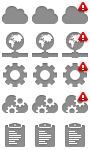
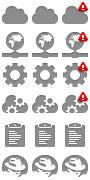
Create page for Redhat Settings (+Bonus Retina Support)

diff --git a/nailgun/static/js/libs/retina.js b/nailgun/static/js/libs/retina.js
@@ -1,0 +1,151 @@
+(function() {
+
+  var root = (typeof exports == 'undefined' ? window : exports);
+
+  var config = {
+    // Ensure Content-Type is an image before trying to load @2x image
+    // https://github.com/imulus/retinajs/pull/45)
+    check_mime_type: true
+  };
+
+
+
+  root.Retina = Retina;
+
+  function Retina() {}
+
+  Retina.configure = function(options) {
+    if (options == null) options = {};
+    for (var prop in options) config[prop] = options[prop];
+  };
+
+  Retina.init = function(context) {
+    if (context == null) context = root;
+
+    var existing_onload = context.onload || new Function;
+
+    var cssName = "/static/css/retina.css";
+    var head  = document.getElementsByTagName('head')[0];
+    var link  = document.createElement('link');
+    link.rel  = 'stylesheet';
+    link.type = 'text/css';
+    link.href = cssName;
+    head.appendChild(link);
+
+    context.onload = function() {
+      var images = document.getElementsByTagName("img"), retinaImages = [], i, image;
+      for (i = 0; i < images.length; i++) {
+        image = images[i];
+        retinaImages.push(new RetinaImage(image));
+      }
+      existing_onload();
+    }
+  };
+
+  Retina.isRetina = function(){
+    var mediaQuery = "(-webkit-min-device-pixel-ratio: 1.5),\
+                      (min--moz-device-pixel-ratio: 1.5),\
+                      (-o-min-device-pixel-ratio: 3/2),\
+                      (min-resolution: 1.5dppx)";
+
+    if (root.devicePixelRatio > 1)
+      return true;
+
+    if (root.matchMedia && root.matchMedia(mediaQuery).matches)
+      return true;
+
+    return false;
+  };
+
+
+  root.RetinaImagePath = RetinaImagePath;
+
+  function RetinaImagePath(path, at_2x_path) {
+    this.path = path;
+    if (typeof at_2x_path !== "undefined" && at_2x_path !== null) {
+      this.at_2x_path = at_2x_path;
+      this.perform_check = false;
+    } else {
+      this.at_2x_path = path.replace(/\.\w+$/, function(match) { return "@2x" + match; });
+      this.perform_check = true;
+    }
+  }
+
+  RetinaImagePath.confirmed_paths = [];
+
+  RetinaImagePath.prototype.is_external = function() {
+    return !!(this.path.match(/^https?\:/i) && !this.path.match('//' + document.domain) )
+  }
+
+  RetinaImagePath.prototype.check_2x_variant = function(callback) {
+    var http, that = this;
+    if (this.is_external()) {
+      return callback(false);
+    } else if (!this.perform_check && typeof this.at_2x_path !== "undefined" && this.at_2x_path !== null) {
+      return callback(true);
+    } else if (this.at_2x_path in RetinaImagePath.confirmed_paths) {
+      return callback(true);
+    } else {
+      http = new XMLHttpRequest;
+      http.open('HEAD', this.at_2x_path);
+      http.onreadystatechange = function() {
+        if (http.readyState != 4) {
+          return callback(false);
+        }
+
+        if (http.status >= 200 && http.status <= 399) {
+          if (config.check_mime_type) {
+            var type = http.getResponseHeader('Content-Type');
+            if (type == null || !type.match(/^image/i)) {
+              return callback(false);
+            }
+          }
+
+          RetinaImagePath.confirmed_paths.push(that.at_2x_path);
+          return callback(true);
+        } else {
+          return callback(false);
+        }
+      }
+      http.send();
+    }
+  }
+
+
+
+  function RetinaImage(el) {
+    this.el = el;
+    this.path = new RetinaImagePath(this.el.getAttribute('src'), this.el.getAttribute('data-at2x'));
+    var that = this;
+    this.path.check_2x_variant(function(hasVariant) {
+      if (hasVariant) that.swap();
+    });
+  }
+
+  root.RetinaImage = RetinaImage;
+
+  RetinaImage.prototype.swap = function(path) {
+    if (typeof path == 'undefined') path = this.path.at_2x_path;
+
+    var that = this;
+    function load() {
+      if (! that.el.complete) {
+        setTimeout(load, 5);
+      } else {
+        that.el.setAttribute('width', that.el.offsetWidth);
+        that.el.setAttribute('height', that.el.offsetHeight);
+        that.el.setAttribute('src', path);
+      }
+    }
+    load();
+  }
+
+
+
+
+  if (Retina.isRetina()) {
+    Retina.init(root);
+  }
+
+})();
+

diff --git a/nailgun/static/templates/cluster/redhat_tab.html b/nailgun/static/templates/cluster/redhat_tab.html
@@ -1,1 +1,84 @@
-redhat tab stub
+<div class="wrapper">
+  <h3 class="span12">Red Hat Enterprise Linux Settings</h3>
+  <div class="row-fluid">
+
+  	<div class="radio-checkbox-group net-manager">
+        <div class="item-box">
+            <label class="parameter-box clearfix">
+              <div class="parameter-control">
+                <div class="custom-tumbler">
+                  <input type="radio" value="" name="rh_select" checked>
+                  <!--[if !IE |(gte IE 9)]>--><span>&nbsp;</span><!--<![endif]-->
+                </div>
+              </div>
+              <div class="parameter-name">RHSM</div>
+            </label>
+         </div>
+         <div class="item-box">
+            <label class="parameter-box clearfix">
+              <div class="parameter-control">
+                <div class="custom-tumbler">
+                  <input type="radio" value="" name="rh_select">
+                  <!--[if !IE |(gte IE 9)]>--><span>&nbsp;</span><!--<![endif]-->
+                </div>
+              </div>
+              <div class="parameter-name">RHN Satellite</div>
+            </label>
+         </div>
+    </div>
+   	
+    <hr>
+
+    <label class="parameter-box clearfix setting">
+        <div class="openstack-sub-title parameter-name">Red Hat Username</div>
+        <div class="parameter-control">
+          <div class="parameter-control">
+            <input type="text" value="">
+          </div>
+        </div>
+        <div class="parameter-description description"></div>
+    </label>
+
+    <label class="parameter-box clearfix setting">
+        <div class="openstack-sub-title parameter-name">Red Hat Password</div>
+        <div class="parameter-control">
+          <div class="parameter-control">
+            <input type="password" value="">
+          </div>
+        </div>
+        <div class="parameter-description description"></div>
+    </label>
+
+    <label class="parameter-box clearfix setting">
+        <div class="openstack-sub-title parameter-name">Satellite Server Hostname</div>
+        <div class="parameter-control">
+          <div class="parameter-control">
+            <input type="text" value="">
+          </div>
+        </div>
+        <div class="parameter-description description">for example: satellite.mycompany.com</div>
+    </label>
+
+    <label class="parameter-box clearfix setting">
+        <div class="openstack-sub-title parameter-name">Activation Key</div>
+        <div class="parameter-control">
+          <div class="parameter-control">
+            <input type="text" value="">
+          </div>
+        </div>
+        <div class="parameter-description description">optional</div>
+    </label>
+
+  </div>
+
+  <!-- page-control box -->
+  <div class="row">
+    <div class="page-control-box">
+      <div class="page-control-button-placeholder">
+        <button class="btn btn-revert-changes">Cancel Changes</button>
+        <button class="btn btn-success btn-apply-changes">Save Settings</button>
+      </div>
+    </div>
+  </div>
+
+</div>

diff --git a/nailgun/static/css/retina.css b/nailgun/static/css/retina.css
@@ -1,0 +1,23 @@
+.tab-nodes-normal    {background: url(../img/tab_icons@2x.png) no-repeat   0px   0px; background-size: 90px;}
+.tab-nodes-good      {background: url(../img/tab_icons@2x.png) no-repeat -30px   0px; background-size: 90px;}
+.tab-nodes-bad       {background: url(../img/tab_icons@2x.png) no-repeat -60px   0px; background-size: 90px;}
+
+.tab-network-normal  {background: url(../img/tab_icons@2x.png) no-repeat   0px -30px; background-size: 90px;}
+.tab-network-good    {background: url(../img/tab_icons@2x.png) no-repeat -30px -30px; background-size: 90px;}
+.tab-network-bad     {background: url(../img/tab_icons@2x.png) no-repeat -60px -30px; background-size: 90px;}
+
+.tab-settings-normal {background: url(../img/tab_icons@2x.png) no-repeat   0px -60px; background-size: 90px;}
+.tab-settings-good   {background: url(../img/tab_icons@2x.png) no-repeat -30px -60px; background-size: 90px;}
+.tab-settings-bad    {background: url(../img/tab_icons@2x.png) no-repeat -60px -60px; background-size: 90px;}
+
+.tab-actions-normal {background: url(../img/tab_icons@2x.png) no-repeat   0px -90px; background-size: 90px;}
+.tab-actions-good   {background: url(../img/tab_icons@2x.png) no-repeat -30px -90px; background-size: 90px;}
+.tab-actions-bad    {background: url(../img/tab_icons@2x.png) no-repeat -60px -90px; background-size: 90px;}
+
+.tab-logs-normal {background: url(../img/tab_icons@2x.png) no-repeat   0px -120px; background-size: 90px;}
+.tab-logs-good   {background: url(../img/tab_icons@2x.png) no-repeat -30px -120px; background-size: 90px;}
+.tab-logs-bad    {background: url(../img/tab_icons@2x.png) no-repeat -60px -120px; background-size: 90px;}
+
+.tab-redhat-normal {background: url(../img/tab_icons@2x.png) no-repeat   0px -150px; background-size: 90px;}
+.tab-redhat-good   {background: url(../img/tab_icons@2x.png) no-repeat -30px -150px; background-size: 90px;}
+.tab-redhat-bad    {background: url(../img/tab_icons@2x.png) no-repeat -60px -150px; background-size: 90px;}

diff --git a/nailgun/static/css/main.css b/nailgun/static/css/main.css
@@ -910,6 +910,10 @@ h6.page-title {
 .tab-logs-good   {background: url(../img/tab_icons.png) no-repeat -30px -120px;}
 .tab-logs-bad    {background: url(../img/tab_icons.png) no-repeat -60px -120px;}
 
+.tab-redhat-normal {background: url(../img/tab_icons.png) no-repeat   0px -150px;}
+.tab-redhat-good   {background: url(../img/tab_icons.png) no-repeat -30px -150px;}
+.tab-redhat-bad    {background: url(../img/tab_icons.png) no-repeat -60px -150px;}
+
 .nav-tabs li a:hover {
   border-color: #404c5c #404c5c #404c5c;
   background-image: -webkit-linear-gradient(bottom, #b8b8b8, #e8e8e8 30%);
@@ -3193,7 +3197,7 @@ select[name=release] option {
 .parameter-name {
   display: block;
   float: left;
-  min-width: 120px;
+  min-width: 180px;
   max-height: 30px;
   box-sizing: border-box;
   -moz-box-sizing: border-box;
@@ -3219,7 +3223,7 @@ select[name=release] option {
   box-sizing: border-box;
   -moz-box-sizing: border-box;
   -webkit-box-sizing: border-box;
-  width: 560px;
+  width: 500px;
   margin-top: 4px;
 }
 

diff --git a/nailgun/static/templates/dialogs/create_cluster.html b/nailgun/static/templates/dialogs/create_cluster.html
@@ -20,8 +20,29 @@
           <span class="help-block"></span>
         </div>
       </div>
+
+      <hr>
+
+      <div class="control-group">
+        <label class="control-label">Red Hat Username</label>
+        <div class="controls">
+          <input type="text" class="input-large" name="name" maxlength="50" autofocus />
+          <span class="help-inline"></span>
+        </div>
+      </div>
+      <div class="control-group">
+        <label class="control-label">Red Hat Password</label>
+        <div class="controls">
+          <input type="password" class="input-large" name="name" maxlength="50" autofocus />
+          <span class="help-inline"></span>
+        </div>
+      </div>
     </fieldset>
   </form>
+
+    <div class="alert alert-error"><strong>Who Are You?</strong> We do not know this person, or you have entered the username and password with an error!
+    </div>
+
 </div>
 <div class="modal-footer">
   <button class="btn" data-dismiss="modal">Cancel</button>

diff --git a/nailgun/static/index.html b/nailgun/static/index.html
@@ -25,5 +25,8 @@
       </div>
     </div>
     <div id="footer"></div>
+
+    <!-- Retina Support -->
+    <script data-main="/static/js/main" src="/static/js/libs/retina.js"></script>
   </body>
 </html>
